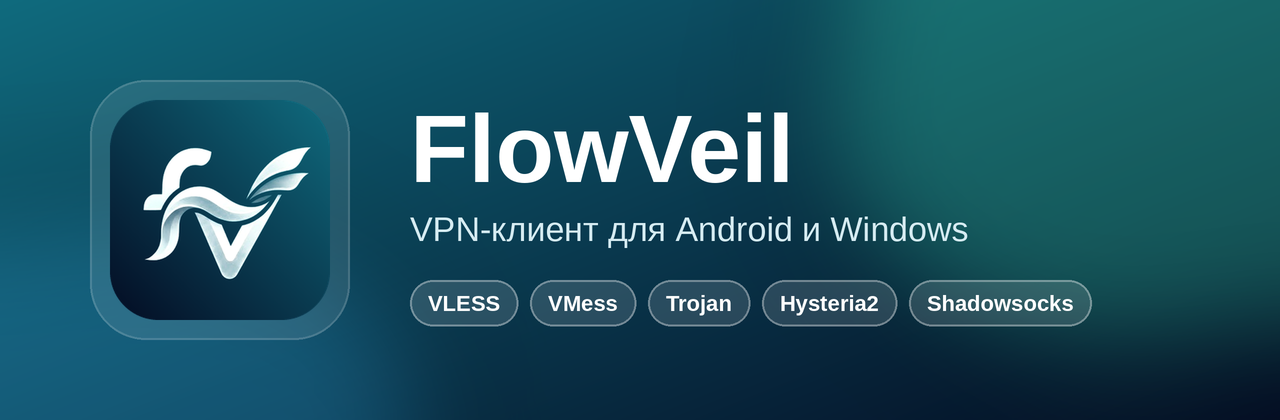
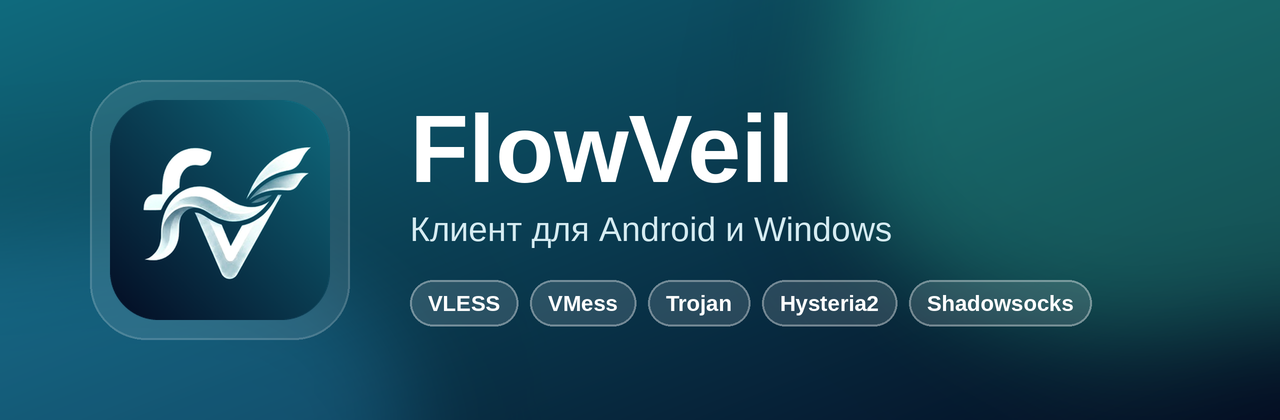
Describe FlowVeil as a client, not a VPN
FlowVeil connects to the user's own provider servers like Happ does; it is not a VPN
service. README, landing page, banner, privacy policy, release notes, widget descriptions,
the notification traffic label and the Windows home screen now say so. Android's system
'VPN mode' settings keep their technical names.

Claude-Session: https://claude.ai/code/session_012hTGXBVD3w4T4gsBtwV239

Changed region(s): [[0.3125, 0.4952, 0.75, 0.5881]]

diff --git a/docs/index.html b/docs/index.html
@@ -3,9 +3,9 @@
 <head>
 <meta charset="utf-8">
 <meta name="viewport" content="width=device-width, initial-scale=1">
-<title>FlowVeil — VPN-клиент для Android и Windows</title>
-<meta name="description" content="FlowVeil — простой и красивый VPN-клиент. Вставьте ссылку на подписку и нажмите одну кнопку. Android и Windows, бесплатно, без аналитики.">
-<meta property="og:title" content="FlowVeil — VPN-клиент для Android и Windows">
+<title>FlowVeil — клиент для Android и Windows</title>
+<meta name="description" content="FlowVeil — простой и красивый клиент для подключения по подписке. Вставьте ссылку на подписку и нажмите одну кнопку. Android и Windows, бесплатно, без аналитики.">
+<meta property="og:title" content="FlowVeil — клиент для Android и Windows">
 <meta property="og:description" content="Вставьте ссылку на подписку — и нажмите одну кнопку.">
 <meta property="og:image" content="banner.png">
 <link rel="icon" href="logo.png">
@@ -82,7 +82,7 @@
   <div class="hero">
     <div>
       <h1>Вставьте ссылку.<br><span>Нажмите одну кнопку.</span></h1>
-      <p class="lead">FlowVeil — простой и красивый VPN-клиент для Android и Windows. Понимает подписки любых провайдеров, сам выбирает быстрый сервер и держит соединение.</p>
+      <p class="lead">FlowVeil — простой и красивый клиент для подключения к серверам по подписке, для Android и Windows. Понимает подписки любых провайдеров, сам выбирает быстрый сервер и держит соединение.</p>
       <div class="btns">
         <a class="btn primary" href="https://github.com/xoyzoom-lgtm/FlowVeil-proxy/releases/latest/download/FlowVeil-android.apk">
           <b>Скачать для Android</b><small>APK · Android 7 и новее</small></a>
@@ -97,7 +97,7 @@
   <section id="start">
     <h2>Как начать</h2>
     <div class="steps">
-      <div class="step"><b>Скопируйте ссылку</b><br><span style="color:var(--muted)">на подписку, которую дал ваш VPN-провайдер.</span></div>
+      <div class="step"><b>Скопируйте ссылку</b><br><span style="color:var(--muted)">на подписку, которую дал ваш провайдер.</span></div>
       <div class="step"><b>Вставьте в FlowVeil</b><br><span style="color:var(--muted)">кнопкой «Вставить из буфера» или отсканируйте QR-код.</span></div>
       <div class="step"><b>Нажмите кнопку</b><br><span style="color:var(--muted)">или «⚡ Лучший» — FlowVeil сам найдёт самый быстрый сервер.</span></div>
     </div>
@@ -110,14 +110,14 @@
       <div class="feat"><div class="i">⚡</div><h3>Лучший сервер</h3><p>Одна кнопка проверяет серверы и подключает к самому быстрому.</p></div>
       <div class="feat"><div class="i">🔁</div><h3>Не отваливается</h3><p>Если сервер перестал отвечать, FlowVeil сам переключится на рабочий.</p></div>
       <div class="feat"><div class="i">📊</div><h3>Всё о подписке</h3><p>Остаток трафика, срок, объявления провайдера и напоминания заранее.</p></div>
-      <div class="feat"><div class="i">🇷🇺</div><h3>Российские сайты напрямую</h3><p>Банки и госуслуги без VPN — одним переключателем.</p></div>
+      <div class="feat"><div class="i">🇷🇺</div><h3>Российские сайты напрямую</h3><p>Банки и госуслуги напрямую — одним переключателем.</p></div>
       <div class="feat"><div class="i">🎨</div><h3>17 тем и виджеты</h3><p>Светлые, тёмные, неоновые темы и виджеты на главный экран.</p></div>
     </div>
   </section>
 
   <section id="faq">
     <h2>Частые вопросы</h2>
-    <details><summary>Это бесплатно?</summary><p>Да. FlowVeil — бесплатное приложение с открытым кодом. Сами серверы даёт ваш VPN-провайдер.</p></details>
+    <details><summary>Это бесплатно?</summary><p>Да. FlowVeil — бесплатное приложение с открытым кодом. Сами серверы даёт ваш провайдер — у FlowVeil своих серверов нет.</p></details>
     <details><summary>Подписка не добавляется</summary><p>FlowVeil покажет причину. Чаще всего ссылка открывает сайт, а не подписку — попросите у провайдера ссылку для приложения. Зашифрованные ссылки <code>happ://crypt…</code> открывает только приложение Happ.</p></details>
     <details><summary>Какие данные собирает приложение?</summary><p>Никаких. Провайдеру подписки уходят только стандартные заголовки устройства для лимита устройств. Подробнее — в <a href="https://github.com/xoyzoom-lgtm/FlowVeil-proxy/blob/main/PRIVACY.md">политике конфиденциальности</a>.</p></details>
     <details><summary>Windows пишет «неизвестный издатель»</summary><p>Установщик пока не подписан сертификатом. Нажмите «Подробнее» → «Выполнить в любом случае». Сборки делаются автоматически из открытого кода.</p></details>

diff --git a/windows/v2rayN/v2rayN/Views/HuppHomeView.xaml b/windows/v2rayN/v2rayN/Views/HuppHomeView.xaml
@@ -274,7 +274,7 @@
                     HorizontalAlignment="Center"
                     FontSize="14"
                     Style="{StaticResource SubText}"
-                    Text="1. Скопируйте ссылку на подписку от вашего VPN (начинается с https://)&#10;2. Нажмите «Вставить ссылку» — серверы загрузятся сами"
+                    Text="1. Скопируйте ссылку на подписку от вашего провайдера (начинается с https://)&#10;2. Нажмите «Вставить ссылку» — серверы загрузятся сами"
                     TextAlignment="Center"
                     TextWrapping="Wrap" />
                 <Button

diff --git a/windows/v2rayN/v2rayN/Views/MainWindow.xaml.cs b/windows/v2rayN/v2rayN/Views/MainWindow.xaml.cs
@@ -403,7 +403,7 @@ public partial class MainWindow
         Row(main, PackIconKind.QrcodeScan, "Сканировать QR-код с экрана", "Если провайдер дал QR-код", () => Exec(vm.AddServerViaScanCmd));
 
         var connection = Section("Подключение");
-        Row(connection, PackIconKind.Directions, "Маршрутизация", "Какие сайты открывать через VPN, а какие напрямую", () => Exec(vm.RoutingSettingCmd));
+        Row(connection, PackIconKind.Directions, "Маршрутизация", "Какие сайты открывать через сервер, а какие напрямую", () => Exec(vm.RoutingSettingCmd));
         Row(connection, PackIconKind.Dns, "DNS", "Серверы для поиска адресов сайтов", () => Exec(vm.DNSSettingCmd));
         Row(connection, PackIconKind.ShieldAccount, "Запустить от администратора", "Нужно для режима TUN (весь трафик)", () => Exec(vm.RebootAsAdminCmd));
 

diff --git a/windows/v2rayN/v2rayN/ViewModels/HuppHomeViewModel.cs b/windows/v2rayN/v2rayN/ViewModels/HuppHomeViewModel.cs
@@ -159,7 +159,7 @@ public sealed class HuppHomeViewModel : HuppObservable
     {
         HintText = !_hasServer
             ? "Сначала добавьте подписку — кнопка «Добавить» слева"
-            : IsConnected ? string.Empty : "Нажмите на кнопку, чтобы включить VPN";
+            : IsConnected ? string.Empty : "Нажмите на кнопку, чтобы подключиться";
     }
 
     private string _pingText = string.Empty;

diff --git a/README.md b/README.md
@@ -16,7 +16,7 @@
 **Вставьте ссылку на подписку — и нажмите одну кнопку.**
 
 🌐 **[Сайт FlowVeil](https://xoyzoom-lgtm.github.io/FlowVeil-proxy/)**
-Простой и красивый VPN-клиент, который понимает подписки любых провайдеров.
+Простой и красивый клиент для подключения к серверам по подписке — понимает подписки любых провайдеров.
 
 </div>
 
@@ -55,7 +55,7 @@
 
 ## 🚀 Как начать
 
-1. Скопируйте ссылку на подписку, которую дал ваш VPN-провайдер.
+1. Скопируйте ссылку на подписку, которую дал ваш провайдер.
 2. Откройте FlowVeil и нажмите **«Вставить из буфера»** (или отсканируйте QR-код).
 3. Нажмите большую кнопку — готово.
 
@@ -67,15 +67,15 @@
 | 🛰 **Все популярные протоколы** | VLESS (Reality, XHTTP), VMess, Trojan, Shadowsocks, Hysteria2, TUIC, WireGuard |
 | 📊 **Информация о подписке** | Остаток трафика, срок действия, объявление и кнопка поддержки провайдера |
 | ⚡ **Лучший сервер** | Одна кнопка проверяет серверы и подключает к самому быстрому |
-| 🔁 **Автопереключение** | Если сервер перестал отвечать, FlowVeil сам переходит на рабочий, не отключая VPN |
+| 🔁 **Автопереключение** | Если сервер перестал отвечать, FlowVeil сам переходит на рабочий, не разрывая подключение |
 | ✅ **Проверка серверов в два шага** | Сначала «работает / не работает», потом пинг — сразу видно, куда подключаться |
 | 🔔 **Напоминания** | За 3 дня и за 1 день до конца подписки и когда заканчивается трафик; подписки обновляются сами каждые 6 часов |
-| 🇷🇺 **Российские сайты напрямую** | Банки и госуслуги без VPN — одним переключателем |
+| 🇷🇺 **Российские сайты напрямую** | Банки и госуслуги напрямую — одним переключателем |
 | ★ **Избранное и тест скорости** | Любимые серверы наверху, скорость в Мбит/с, живая скорость под кнопкой |
 | 🔗 **Ссылки-приглашения** | `flowveil://add?url=…` открывает FlowVeil и сразу добавляет подписку |
 | 🎨 **17 цветовых тем** | Светлые, тёмные, неоновые — плюс свой код темы |
 | 🧩 **Виджеты** | Кнопка 1×1 и карточка со статусом и сервером на главном экране Android |
-| 🛡 **Режим TUN на ПК** | Весь трафик компьютера через VPN, а не только браузер |
+| 🛡 **Режим TUN на ПК** | Весь трафик компьютера через сервер, а не только браузер |
 | 🔄 **Обновления в одно касание** | Новая версия скачивается и ставится из самого приложения |
 | 🔒 **Без аналитики** | Никаких аккаунтов, трекеров и серверов разработчика |
 

diff --git a/PRIVACY.md b/PRIVACY.md
@@ -3,7 +3,7 @@
 Действует с 29 сентября 2026 г.
 Разработчик: GxoyzoomG · Telegram: [@GxoyzoomG](https://t.me/GxoyzoomG)
 
-FlowVeil — клиент для подключения к VPN/прокси-серверам (Android и Windows). У FlowVeil **нет своих серверов, аккаунтов и аналитики**: приложение работает только на вашем устройстве и само по себе ничего о вас не собирает и никуда не отправляет разработчику.
+FlowVeil — клиент для подключения к прокси-серверам по подписке (Android и Windows). У FlowVeil **нет своих серверов, аккаунтов и аналитики**: приложение работает только на вашем устройстве и само по себе ничего о вас не собирает и никуда не отправляет разработчику.
 
 ## 1. Что хранится на вашем устройстве
 
@@ -17,7 +17,7 @@ FlowVeil — клиент для подключения к VPN/прокси-се
 
 Разработчик не имеет доступа к этим данным. Они удаляются вместе с приложением.
 
-## 2. Что FlowVeil отправляет вашему VPN-провайдеру
+## 2. Что FlowVeil отправляет вашему провайдеру
 
 Когда вы добавляете или обновляете подписку, FlowVeil обращается по ссылке вашего провайдера и передаёт стандартные заголовки, по которым провайдер узнаёт устройство и ограничивает число устройств:
 
@@ -27,7 +27,7 @@ FlowVeil — клиент для подключения к VPN/прокси-се
 
 Отправку HWID можно отключить в настройках Android («Отправлять ID устройства»). Некоторые провайдеры без него не выдают серверы.
 
-Что провайдер делает с этими данными, определяет **его** политика конфиденциальности. Трафик, который идёт через VPN, обрабатывает сервер провайдера, а не FlowVeil и не разработчик.
+Что провайдер делает с этими данными, определяет **его** политика конфиденциальности. Трафик, который идёт через подключение, обрабатывает сервер провайдера, а не FlowVeil и не разработчик.
 
 ## 3. Другие сетевые запросы
 
@@ -38,7 +38,7 @@ FlowVeil — клиент для подключения к VPN/прокси-се
 
 ## 4. Разрешения на Android
 
-- **VPN** — чтобы пропускать трафик через выбранный сервер.
+- **VPN (системный режим Android)** — чтобы пропускать трафик через выбранный сервер.
 - **Уведомления** — чтобы показывать статус подключения.
 - **Камера** — только для сканирования QR-кода подписки, когда вы сами это выбираете.
 - **Установка приложений** — только чтобы установить скачанное вами обновление FlowVeil.
